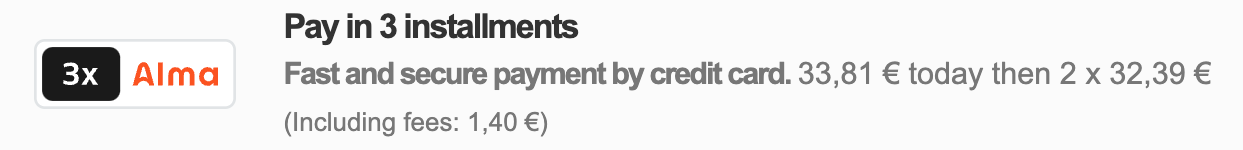
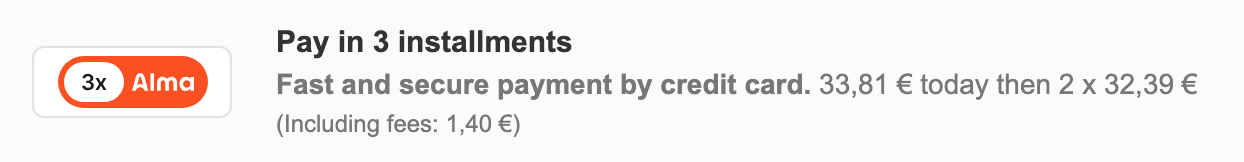
Release v4.18.0 (#834)

diff --git a/CHANGELOG.md b/CHANGELOG.md
@@ -2,11 +2,9 @@
 
 ## v4.18.0 - 2026-11-27
 
-### Changes
-
 ### 🚀 New Features
 
-- feat(checkout): apply the new Alma brand to the module logos (ECOM-4590) (#172)
+- New Alma brand: the module now displays the new Alma logos at checkout and in the module settings (#172)
 
 #### Contributors
 
